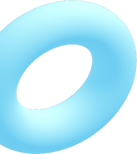
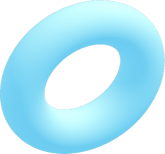
refactor: various CSS corrections + new ring.png

diff --git a/components/GetStarted/GetStarted.tsx b/components/GetStarted/GetStarted.tsx
@@ -1,8 +1,6 @@
 import { FC } from "react";
-import { Button, Typography } from "@mui/material";
+import { Button, Stack, Typography } from "@mui/material";
 import { Box } from "@mui/system";
-import Image from "next/image";
-import Link from "next/link";
 import {
 	getstarted1,
 	getstarted2,
@@ -10,67 +8,63 @@ import {
 	cylinder,
 	ring,
 } from "assets/png";
-import styles from "./started.module.scss";
+import { Image } from "components/Image";
 
 export const GetStarted: FC = () => {
 	return (
-		<Box className={styles.getstarted}>
-			<Box
-				display="flex"
-				justifyContent="center"
-				alignItems="center"
-				flexDirection="column"
-			>
-				<Typography
-					variant="h3"
-					component="h2"
-					textAlign="center"
-					pt={3}
-					maxWidth={500}
-				>
+		<Box bgcolor="primary.main" color="#fff" borderRadius={3}>
+			<Stack alignItems="center">
+				<Typography variant="h3" component="h2" align="center" pt={6}>
 					Ready to get started?
 				</Typography>
-				<Typography variant="h5" pb={2} textAlign="center">
+				<Typography variant="h5" component="h3" align="center" pb={2}>
 					Download the app and sign up now!
 				</Typography>
-				<Box sx={{ mb: { xs: 2, md: 5 } }}>
-					<Button variant="contained" color="info">
-						<Link href="/">Download</Link>
+				<Box position="relative" width="100%" display="grid">
+					<Image
+						src={ring}
+						alt=""
+						wrapstyle={{
+							position: "absolute",
+							top: -40,
+							left: -90,
+						}}
+					/>
+					<Button
+						variant="contained"
+						sx={{ bgcolor: "#fff", color: "#484848", mx: "auto" }}
+						role="link"
+						href="#"
+					>
+						Download
 					</Button>
+					<Image
+						src={cylinder}
+						alt=""
+						wrapstyle={{
+							position: "absolute",
+							top: 0,
+							right: { xs: -80, md: "4vw" },
+						}}
+					/>
 				</Box>
-			</Box>
-			<Box className={styles.content}>
-				<Box
-					className={styles.ring}
-					sx={{ display: { xs: "none", md: "flex" } }}
-				>
-					<Image src={ring} alt={"altText"} />
-				</Box>
-				<Box
-					className={styles.cylinder}
-					sx={{ display: { xs: "none", md: "flex" } }}
-				>
-					<Image src={cylinder} alt={"altText"} />
-				</Box>
-				<Box className={styles.app}>
-					<Box component="span" className={styles.imagebox} mr={-4}>
-						<Image
-							src={getstarted1}
-							className={styles.appimage}
-							alt={"altText"}
-						/>
-					</Box>
-					<Box component="span" className={styles.imagebox} zIndex={1}>
-						<Image src={getstarted2} alt={"altText"} />
-					</Box>
-					<Box component="span" className={styles.imagebox} ml={-4}>
-						<Image
-							src={getstarted3}
-							className={styles.appimage}
-							alt={"altText"}
-						/>
-					</Box>
-				</Box>
+			</Stack>
+			<Box mt={20} display="flex" justifyContent="center" alignItems="flex-end">
+				<Image
+					src={getstarted1}
+					alt=""
+					wrapstyle={{ position: "relative", right: -40, display: "flex" }}
+				/>
+				<Image
+					src={getstarted2}
+					alt=""
+					wrapstyle={{ zIndex: 1, display: "flex" }}
+				/>
+				<Image
+					src={getstarted3}
+					alt=""
+					wrapstyle={{ position: "relative", left: -40, display: "flex" }}
+				/>
 			</Box>
 		</Box>
 	);

diff --git a/pages/about/About.tsx b/pages/about/About.tsx
@@ -4,7 +4,6 @@ import { Hero } from "pages/about/components/Hero";
 import { OurStory } from "pages/about/components/OurStory";
 import { Gallery } from "pages/about/components/Gallery";
 import styles from "./about.module.scss";
-import { GetStarted } from "components/GetStarted";
 
 export const About: NextPage = () => {
 	return (
@@ -25,7 +24,6 @@ export const About: NextPage = () => {
 				<Hero />
 				<Gallery />
 				<OurStory />
-				<GetStarted />
 			</div>
 		</>
 	);

diff --git a/pages/about/components/Gallery.tsx b/pages/about/components/Gallery.tsx
@@ -28,6 +28,7 @@ export const Gallery: FC = ({}) => {
 				width="70%"
 				align="center"
 				mx="auto"
+				maxWidth={800}
 			>
 				Every groundbreaking App begins with a series of small ideas that are
 				combined into an all inclusive one. At WalkingPal, we wanted to change

diff --git a/theme/theme.ts b/theme/theme.ts
@@ -27,10 +27,6 @@ export const getDesignTokens = (mode: "light" | "dark") =>
 			secondary: {
 				main: "#F6BF51",
 			},
-			info: {
-				main: "#ffffff",
-				contrastText: "#484848",
-			},
 			text: {
 				primary: "#210B0B",
 				secondary: "#767676",

diff --git a/pages/about/about.module.scss b/pages/about/about.module.scss
@@ -1,6 +1,7 @@
 .main {
 	padding: 4vw;
 	.gallery {
+		padding: 40px 0;
 		display: grid;
 		gap: 30px;
 		grid-template-columns: 1fr 1fr 1.5fr;
